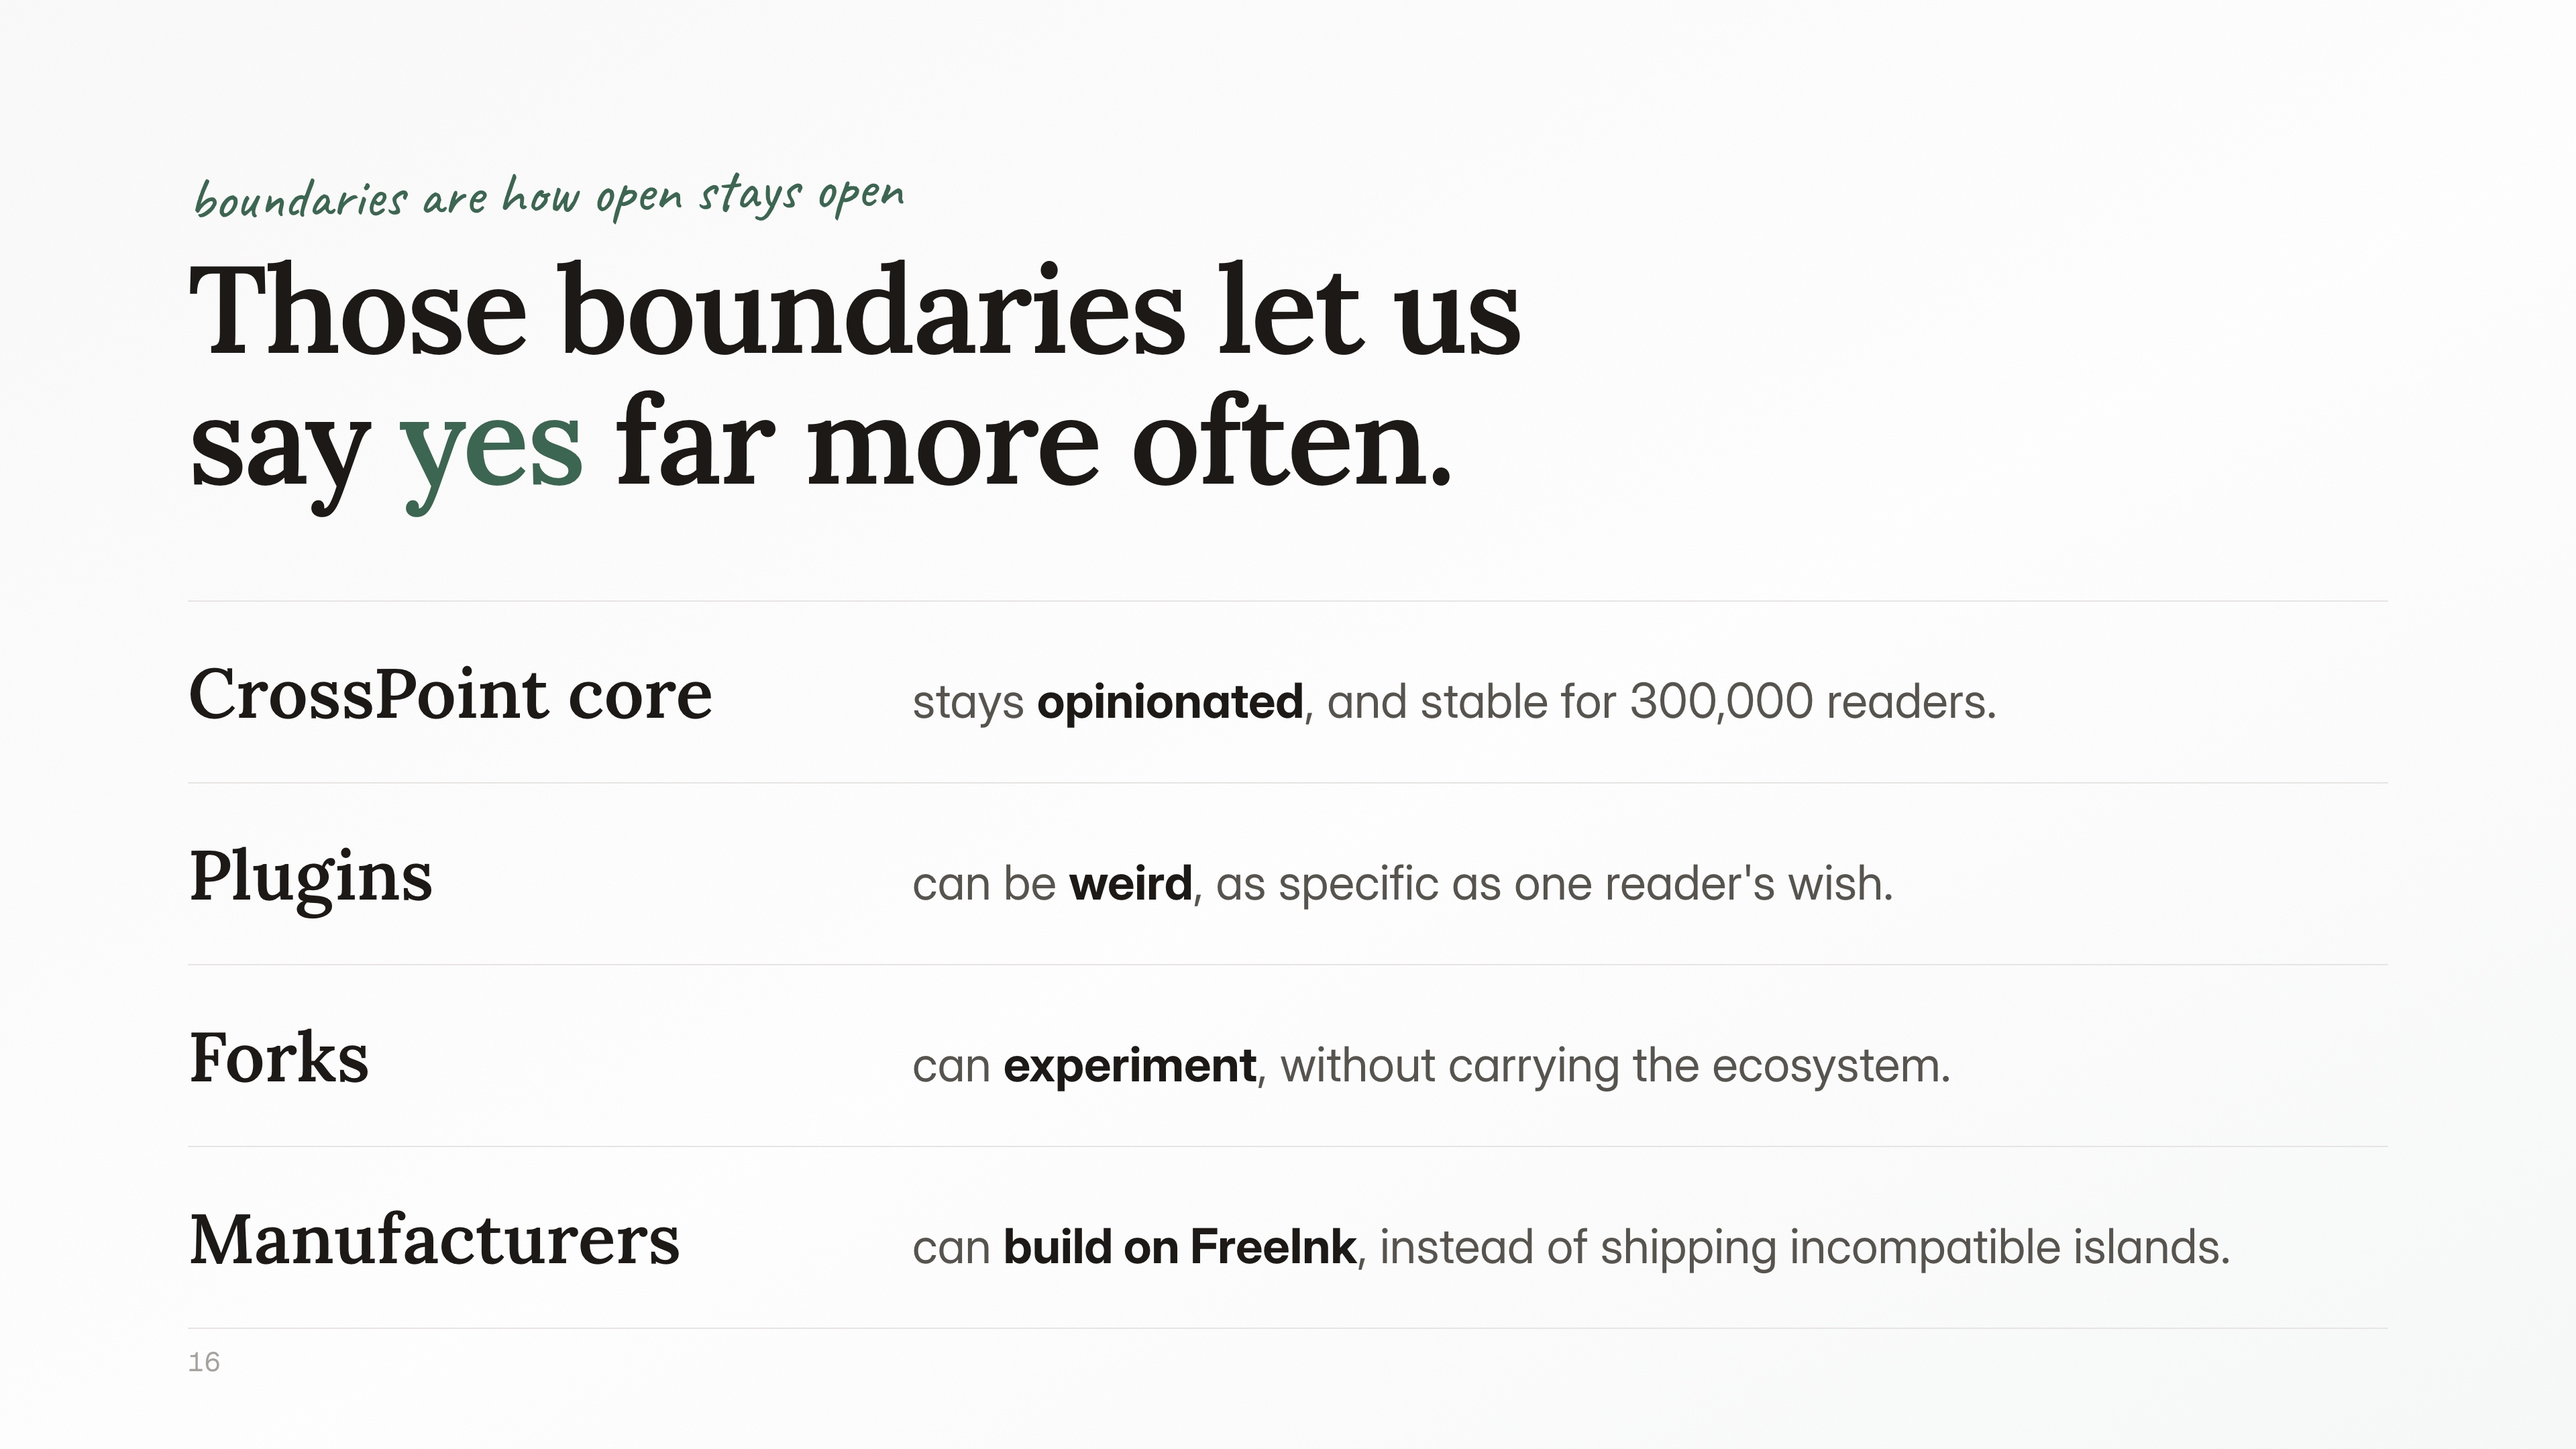
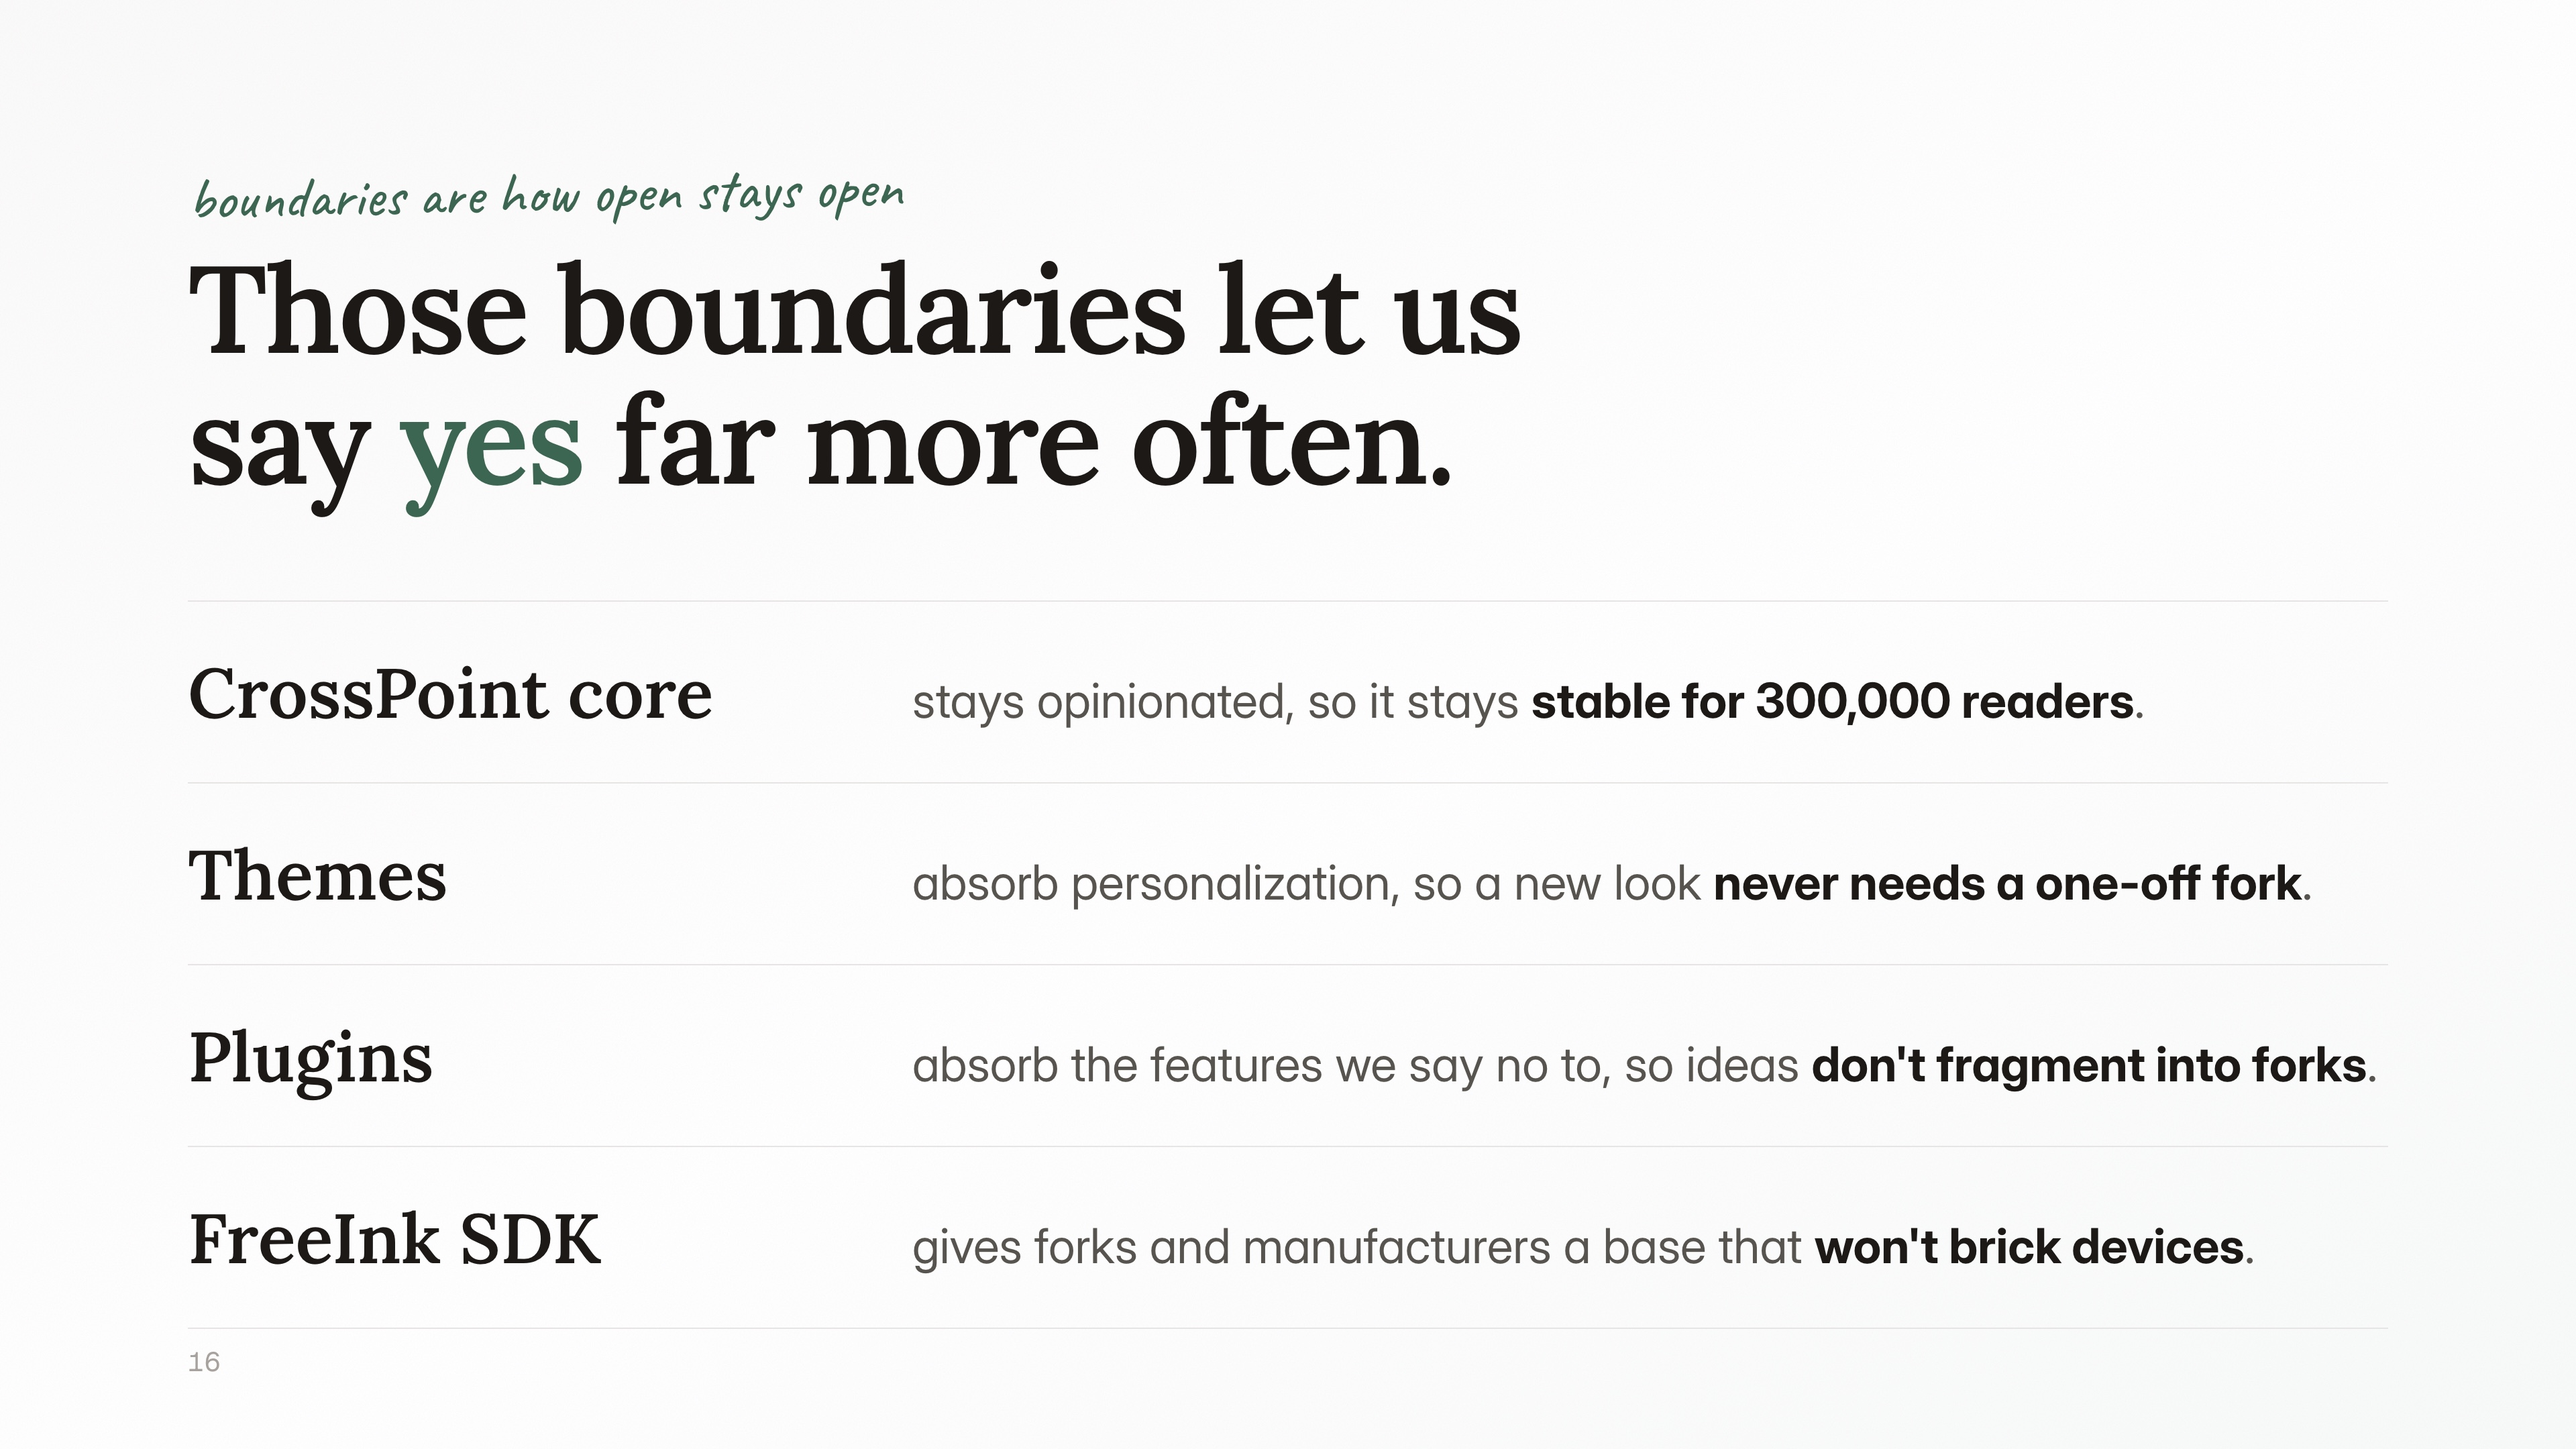
Refine messaging in deck presentation slides
Reword slide content to better emphasize how themes and plugins prevent fragmentation. Reorder sections (Themes before Plugins) and clarify the value proposition of each component: stability through opinions, themes for personalization, plugins for feature requests, and SDK for safe customization.

diff --git a/deck/index.html b/deck/index.html
@@ -603,19 +603,19 @@
     <div style="margin-top:72px; display:flex; flex-direction:column;">
       <div style="display:grid; grid-template-columns: 480px 1fr; gap:60px; align-items:baseline; padding:34px 0; border-top:1px solid var(--stone-200);">
         <h3 style="font-family:var(--font-display); font-weight:600; font-size:52px;">CrossPoint core</h3>
-        <p style="font-size:36px; color:var(--stone-600);">stays <strong style="color:var(--stone-900);">opinionated</strong>, and stable for 300,000 readers.</p>
+        <p style="font-size:36px; color:var(--stone-600);">stays opinionated, so it stays <strong style="color:var(--stone-900);">stable for 300,000 readers</strong>.</p>
+      </div>
+      <div style="display:grid; grid-template-columns: 480px 1fr; gap:60px; align-items:baseline; padding:34px 0; border-top:1px solid var(--stone-200);">
+        <h3 style="font-family:var(--font-display); font-weight:600; font-size:52px;">Themes</h3>
+        <p style="font-size:36px; color:var(--stone-600);">absorb personalization, so a new look <strong style="color:var(--stone-900);">never needs a one-off fork</strong>.</p>
       </div>
       <div style="display:grid; grid-template-columns: 480px 1fr; gap:60px; align-items:baseline; padding:34px 0; border-top:1px solid var(--stone-200);">
         <h3 style="font-family:var(--font-display); font-weight:600; font-size:52px;">Plugins</h3>
-        <p style="font-size:36px; color:var(--stone-600);">can be <strong style="color:var(--stone-900);">weird</strong>, as specific as one reader's wish.</p>
-      </div>
-      <div style="display:grid; grid-template-columns: 480px 1fr; gap:60px; align-items:baseline; padding:34px 0; border-top:1px solid var(--stone-200);">
-        <h3 style="font-family:var(--font-display); font-weight:600; font-size:52px;">Forks</h3>
-        <p style="font-size:36px; color:var(--stone-600);">can <strong style="color:var(--stone-900);">experiment</strong>, without carrying the ecosystem.</p>
+        <p style="font-size:36px; color:var(--stone-600);">absorb the features we say no to, so ideas <strong style="color:var(--stone-900);">don't fragment into forks</strong>.</p>
       </div>
       <div style="display:grid; grid-template-columns: 480px 1fr; gap:60px; align-items:baseline; padding:34px 0; border-top:1px solid var(--stone-200); border-bottom:1px solid var(--stone-200);">
-        <h3 style="font-family:var(--font-display); font-weight:600; font-size:52px;">Manufacturers</h3>
-        <p style="font-size:36px; color:var(--stone-600);">can <strong style="color:var(--stone-900);">build on FreeInk</strong>, instead of shipping incompatible islands.</p>
+        <h3 style="font-family:var(--font-display); font-weight:600; font-size:52px;">FreeInk SDK</h3>
+        <p style="font-size:36px; color:var(--stone-600);">gives forks and manufacturers a base that <strong style="color:var(--stone-900);">won't brick devices</strong>.</p>
       </div>
     </div>
   </div>
